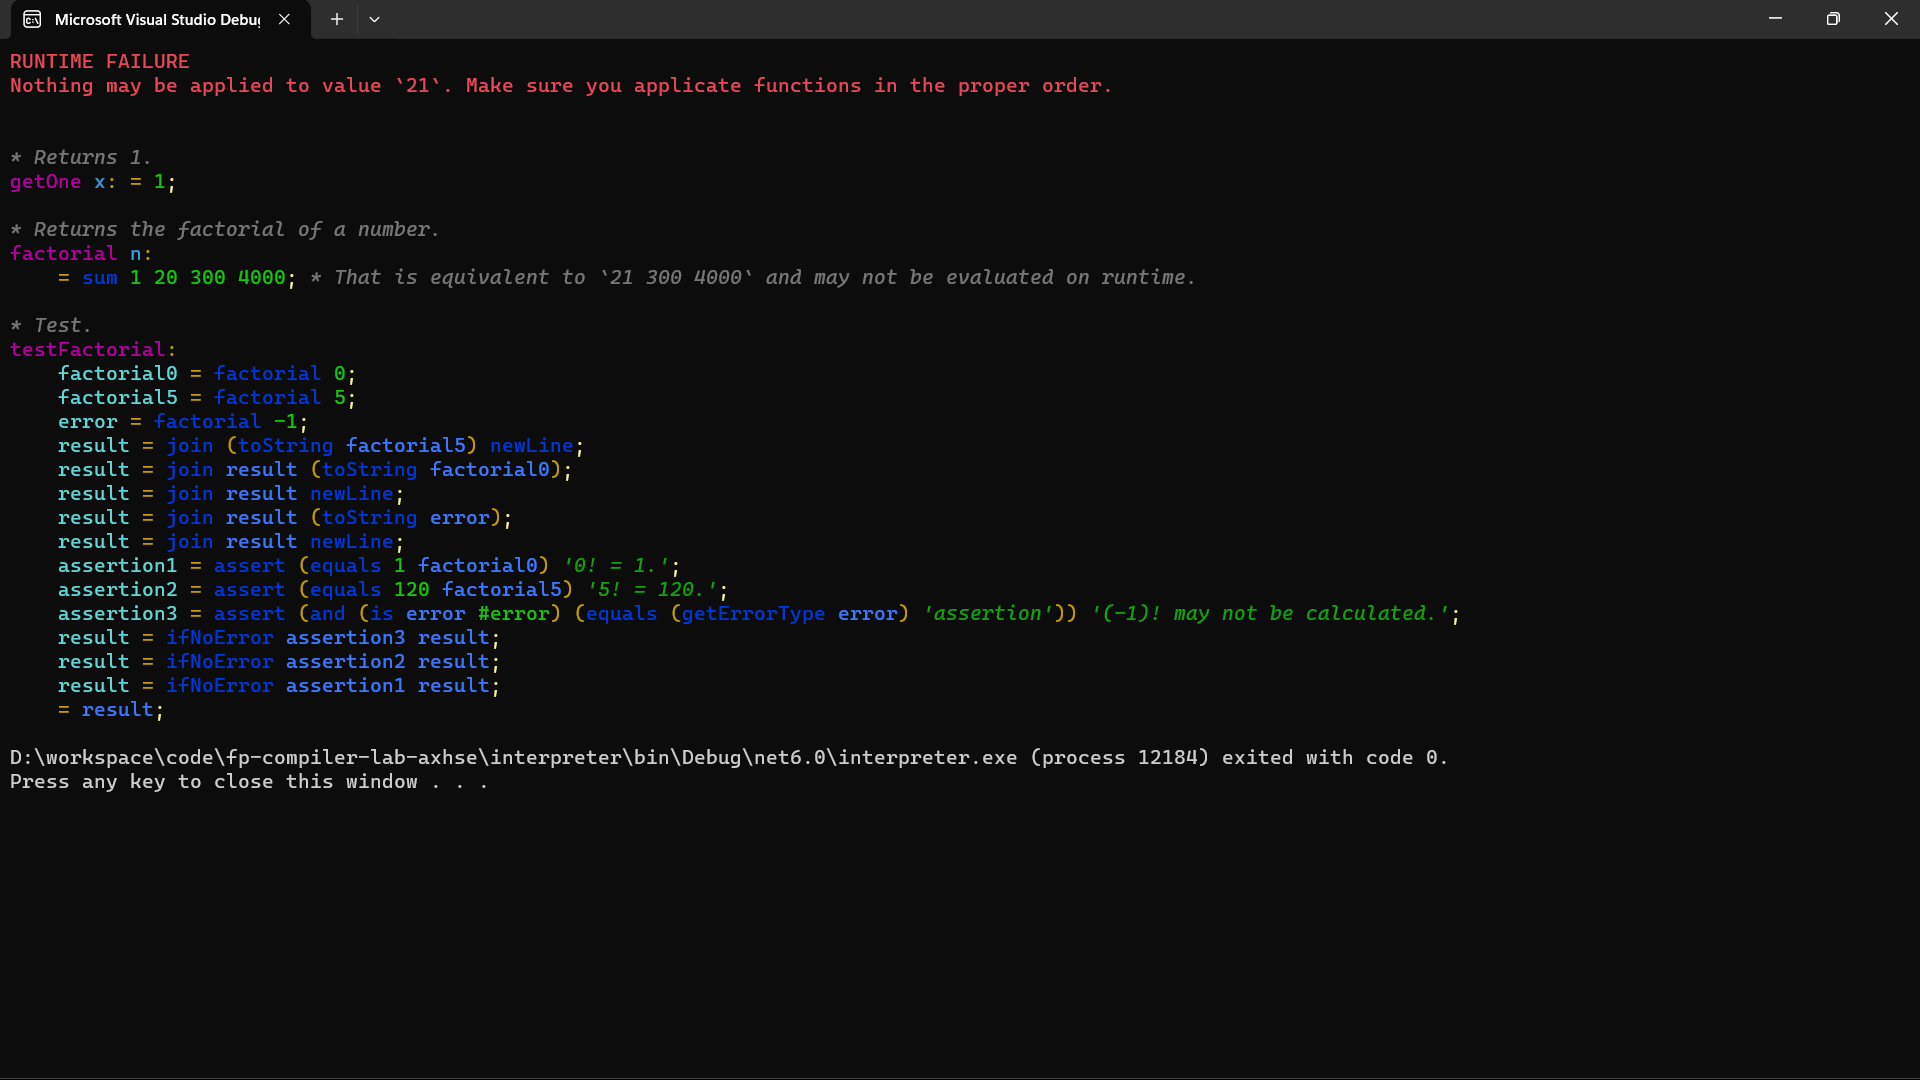
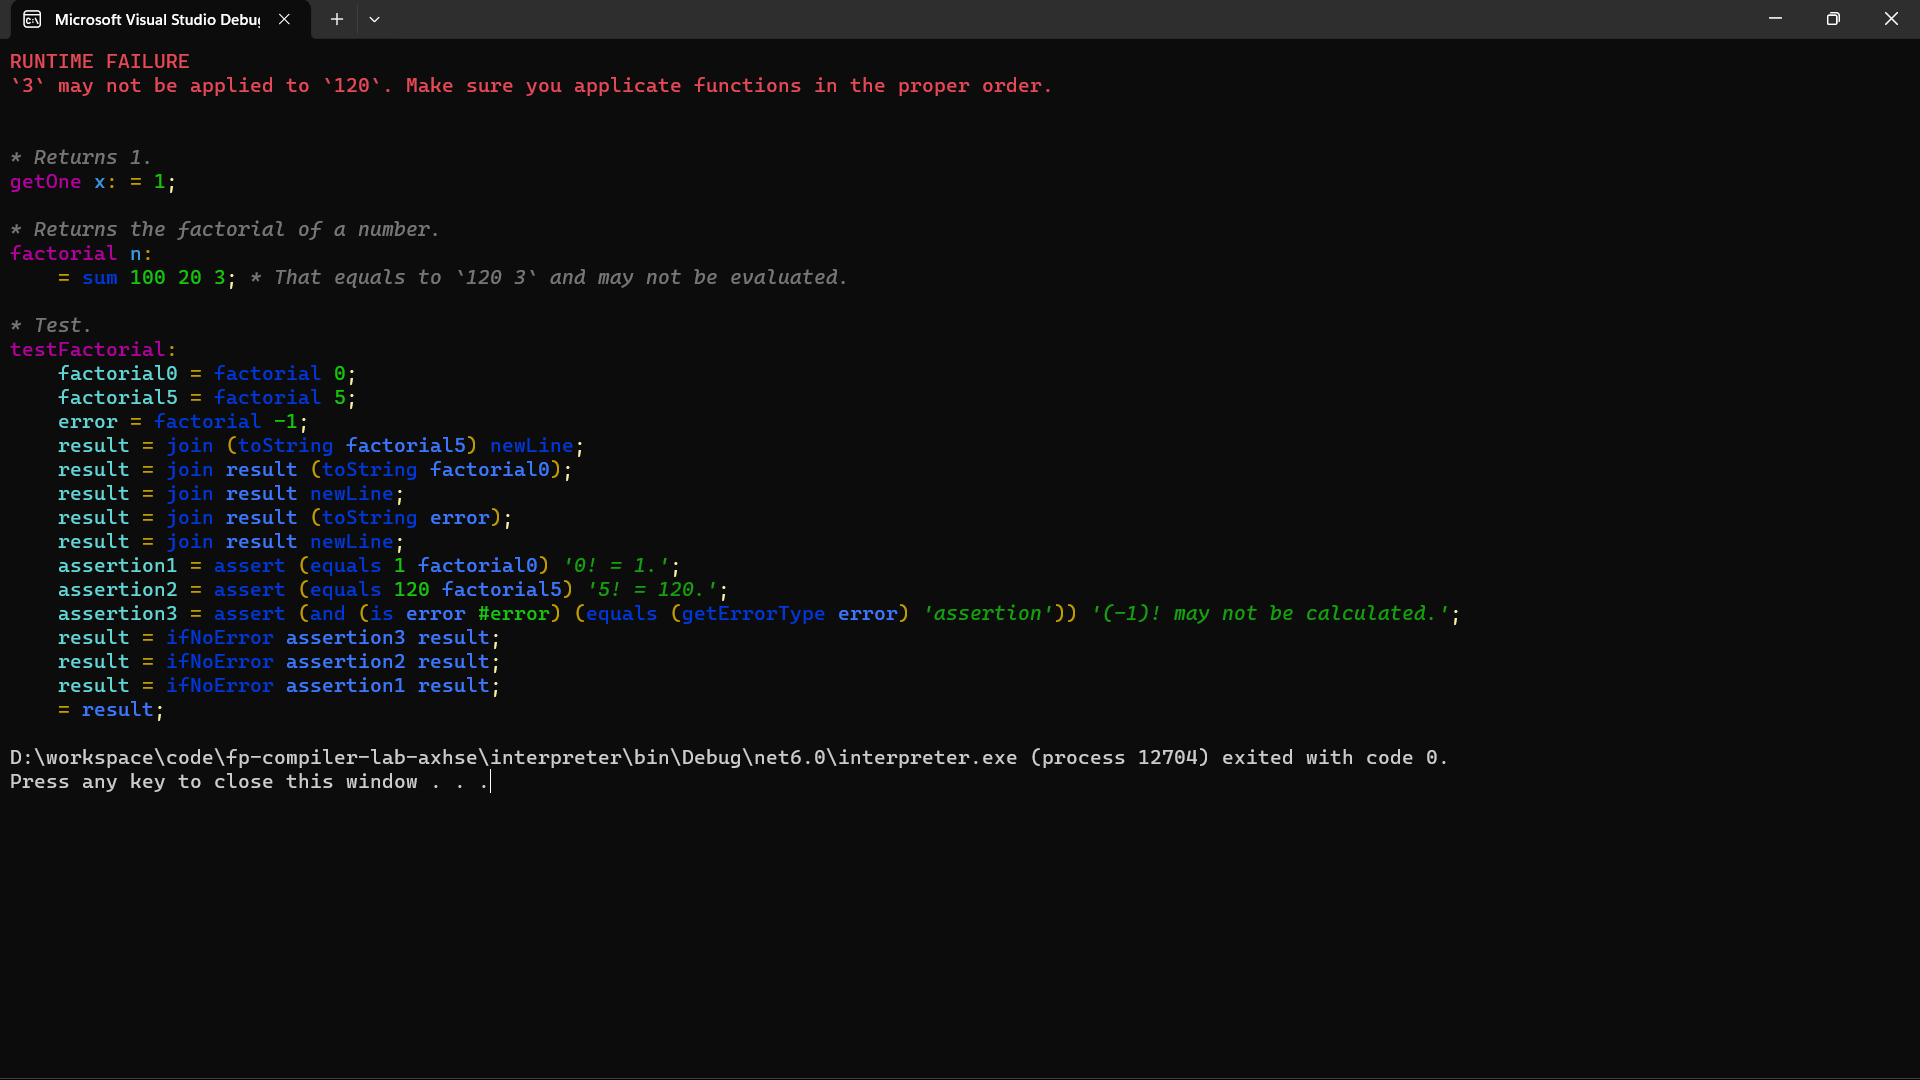
update resources

diff --git a/README.md b/README.md
@@ -79,13 +79,15 @@ Though, it's ok to merge the text of multiple source files to parse it all toget
 2. In addition, some function may produce an error and then this error will be passed to the next functions, what will probably lead to creating a brand-new error. - Make sure your code has no source of unexpected errors.
 
 ### Samples
-1. ***std.bm***  
+1. [std.bm](https://github.com/MAILabs-Edu-2023/fp-compiler-lab-axhse/blob/main/samples/std.bm)  
 Keeps some common functions.
-2. ***factorial.bm***
+2. [factorial.bm](https://github.com/MAILabs-Edu-2023/fp-compiler-lab-axhse/blob/main/samples/factorial.bm)  
 - `factorial n` - calculates the factorial of n.
 - `testFactorial` - tests if `factorial` works properly.
-3. ***magic.bm***
+3. [magic.bm](https://github.com/MAILabs-Edu-2023/fp-compiler-lab-axhse/blob/main/samples/magic.bm)  
 - `materializeMagic` - returns an array containing values of different types.
 
 ### Demo
 ![](https://github.com/MAILabs-Edu-2023/fp-compiler-lab-axhse/blob/main/docs/success.png)
+![](https://github.com/MAILabs-Edu-2023/fp-compiler-lab-axhse/blob/main/docs/compilation%20error.png)
+![](https://github.com/MAILabs-Edu-2023/fp-compiler-lab-axhse/blob/main/docs/runtime%20error.png)
